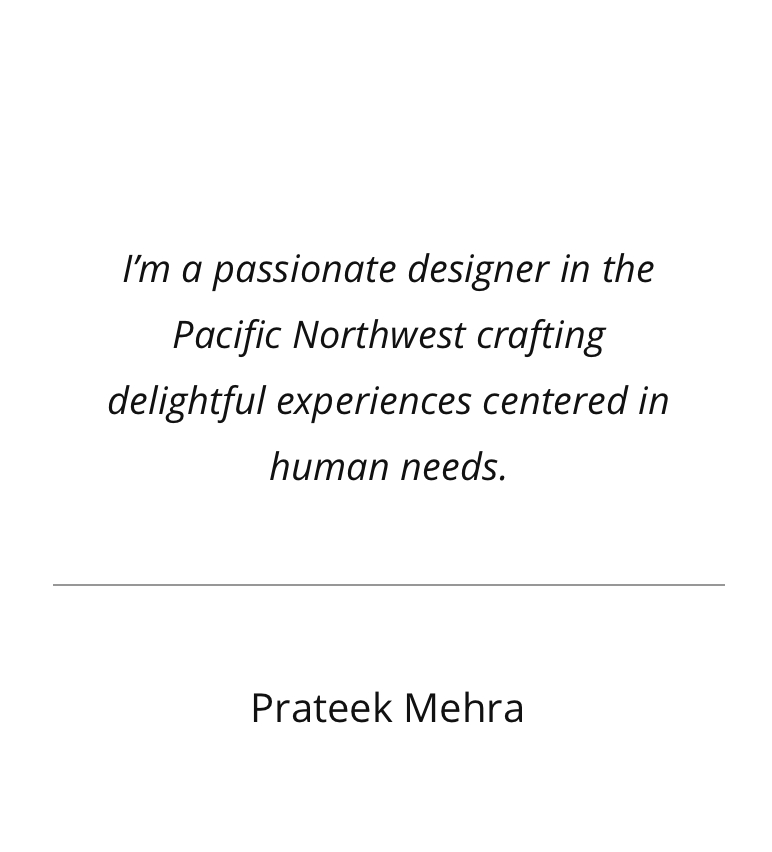
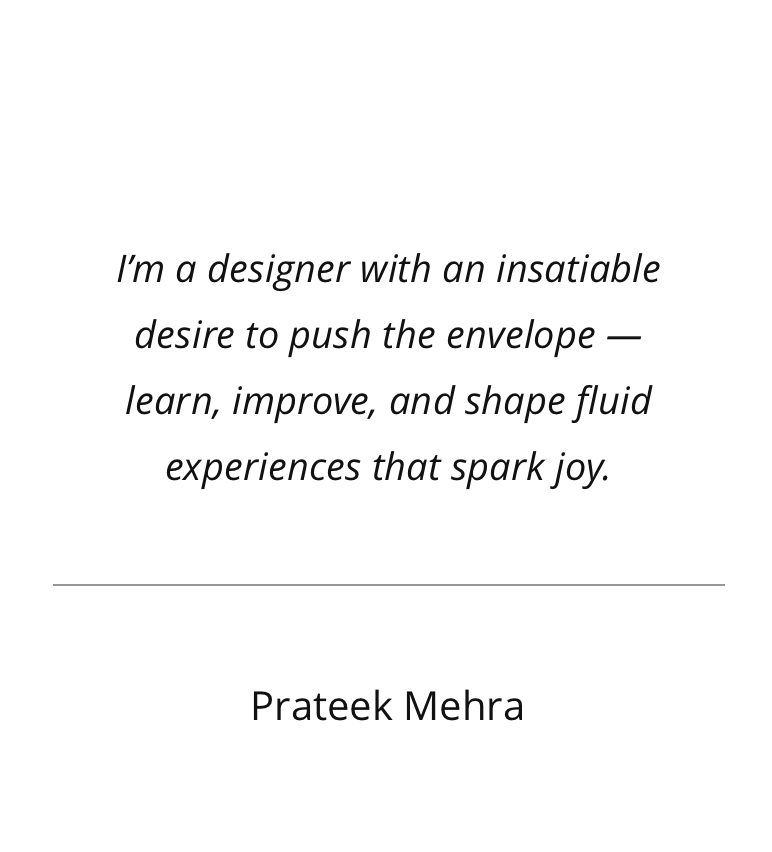
+ Updated about me content on homepage and about page + Media tags for hamburger in mobile

diff --git a/about.html b/about.html
@@ -114,35 +114,29 @@
 							</div>
 
 						<div class="half aboutme" style="">
-							<div class="center-padded-little">
+							<div class="center-padded-little left-align">
 								<div class="compressed-centered60">
 									<div class="intro-header">
-										<div id="brand left-align">
+										<div id="brand">
 											<p class="title">About Me</p>
 										</div>
 									</div>
 									<br><br>
 									<div class="brand left-align">
 										<div class="center-align">
-										<img src="/images/signature.png" style="width: 300px; display: block; margin: auto"/>
+											<!-- <img src="/images/signature.png" style="width: 300px; display: block; margin: auto"/> -->
 									</div>
-										<p>I'm a graduate student currently pursuing a Master's in Human Centered Design and Engineering at the University of Washington, Seattle. I have a background in Computer Science and Engineering and have worked as a software engineer.
+										<p><em>"I like my design today."</em></p>
+										<br>
+										<p>I'm passionate to improve the quality of my work which leads me to hold myself to a high bar. I immerse myself in my designs to the extent that I lose track of food, time and sleep.</p>
+										<br>
+										<p>
+										Currently, I'm polishing my craft and soft skills while building a diverse skillset through a Master's in Human Centered Design and Engineering at the University of Washington, Seattle. 
 										</p>
 										<br>
-										<p>Learn more about how I got into design and my experiments with it in the sections to follow. Look at my education, skills, work experience and accomplishments in my résumé.</p>
-										
-										<br>
-										<div class="centered">
-											<section class="animated-button">
-											  <a href="/downloads/prateekmehra-resume.pdf">
-											    <span class="text">View Résumé</span>
-											    <span class="line -right"></span>
-											    <span class="line -top"></span>
-											    <span class="line -left"></span>
-											    <span class="line -bottom"></span>
-											  </a>
-											</section>
-										</div>
+										<p>
+										My background in Computer Science and past experience as a Software Engineer not only make me aware of what's achievable technically but also know where I can push the limits of technology to make my imagination come to life. 
+										</p>
 									</div>
 								</div>
 							</div>

diff --git a/index.html b/index.html
@@ -297,9 +297,10 @@
 				<br>
 				<br>
 				<br>
-				<section style="margin-top:-20px; cursor: pointer; text-transform: uppercase;">
+				<section class="title" style="margin-top:-20px; cursor: pointer; text-transform: uppercase;">
 					<a>
-						<p>Still Wanna See More?</p>
+						<p style="line-height: 1.5">Wanna Peek At More Past Work?</p>
+						<img src="/images/home/down-arrow.png" width="10px">
 					</a>
 				</section>
 				<br>

diff --git a/css/footer.css b/css/footer.css
@@ -3,12 +3,13 @@
 }
 
 .site-footer .overview {
-    padding            : 10px 10px;
+    /* padding            : 10px 10px; */
 
     text-align         : center;
     text-decoration    : none;
 
     float:right;margin : 30px;
+    font-size: 1rem;
 }
 
 .site-footer nav {
@@ -17,6 +18,7 @@
     margin      : 30px;
 
     line-height : 1.8;
+    font-size: 1rem;
 }
 
 .site-footer nav ul {

diff --git a/css/media-tags-about.css b/css/media-tags-about.css
@@ -392,6 +392,15 @@ MEDIA TAGS
 
     #navigator {
         right: 10px;
+        display: none !important;
+    }
+
+    #horizontal-menu {
+        display: none !important;
+    }
+
+    #menuToggle {
+        display: block !important;
     }
 
     .navLink {

diff --git a/css/media-tags-projects.css b/css/media-tags-projects.css
@@ -387,6 +387,15 @@ MEDIA TAGS
 
     #navigator {
         right: 10px;
+        display: none !important;
+    }
+
+    #horizontal-menu {
+        display: none !important;
+    }
+
+    #menuToggle {
+        display: block !important;
     }
 
     .navLink {

diff --git a/footer.html b/footer.html
@@ -7,4 +7,4 @@
 		<li><a href="mailto:pmehra@uw.edu"><i class="fas fa-at fa-1x"></i></a></li>
 	</ul>
 </nav>
-<div class="overview">Website design and content © 2019 Prateek Mehra</div>
+<div class="overview">Designed and coded by Prateek Mehra 👨💻</div>

diff --git a/css/main.css b/css/main.css
@@ -270,7 +270,7 @@ PAGE CONTENT
 }
 
 .page-content .aboutme {
-    margin-top: 14vh;
+    margin-top: 10vh;
 }
 
 .page-content .tile {
